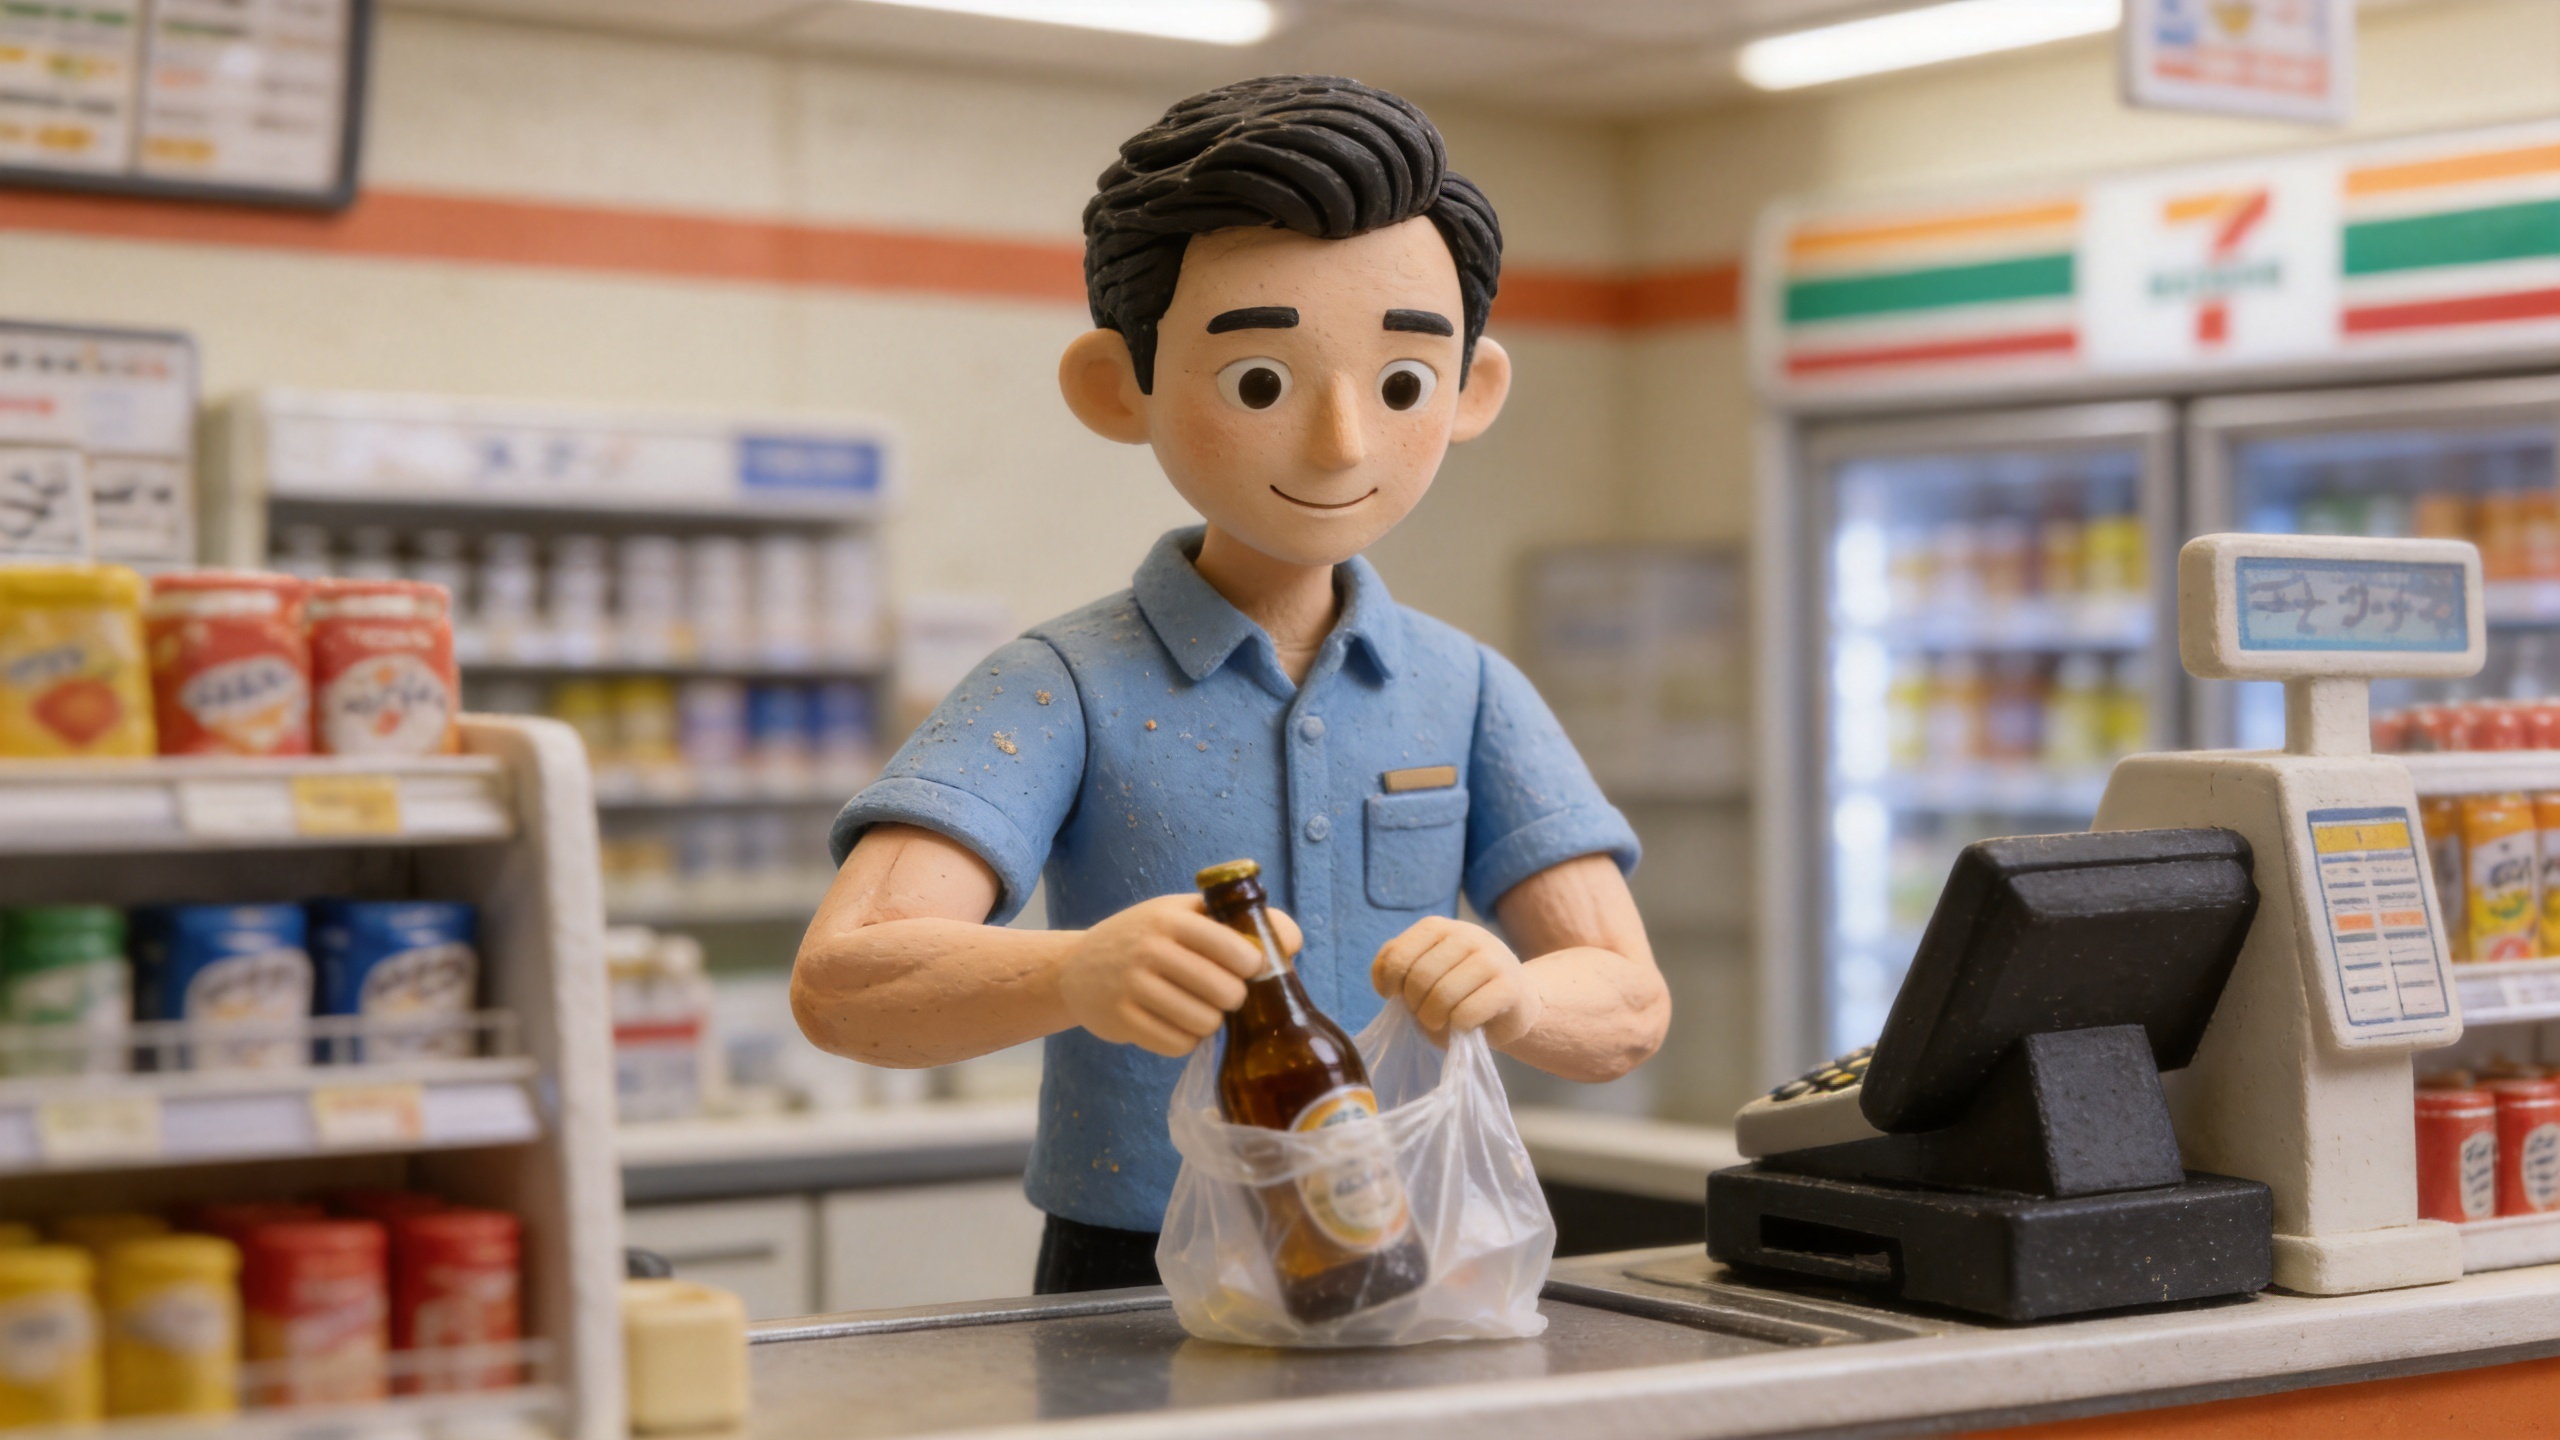
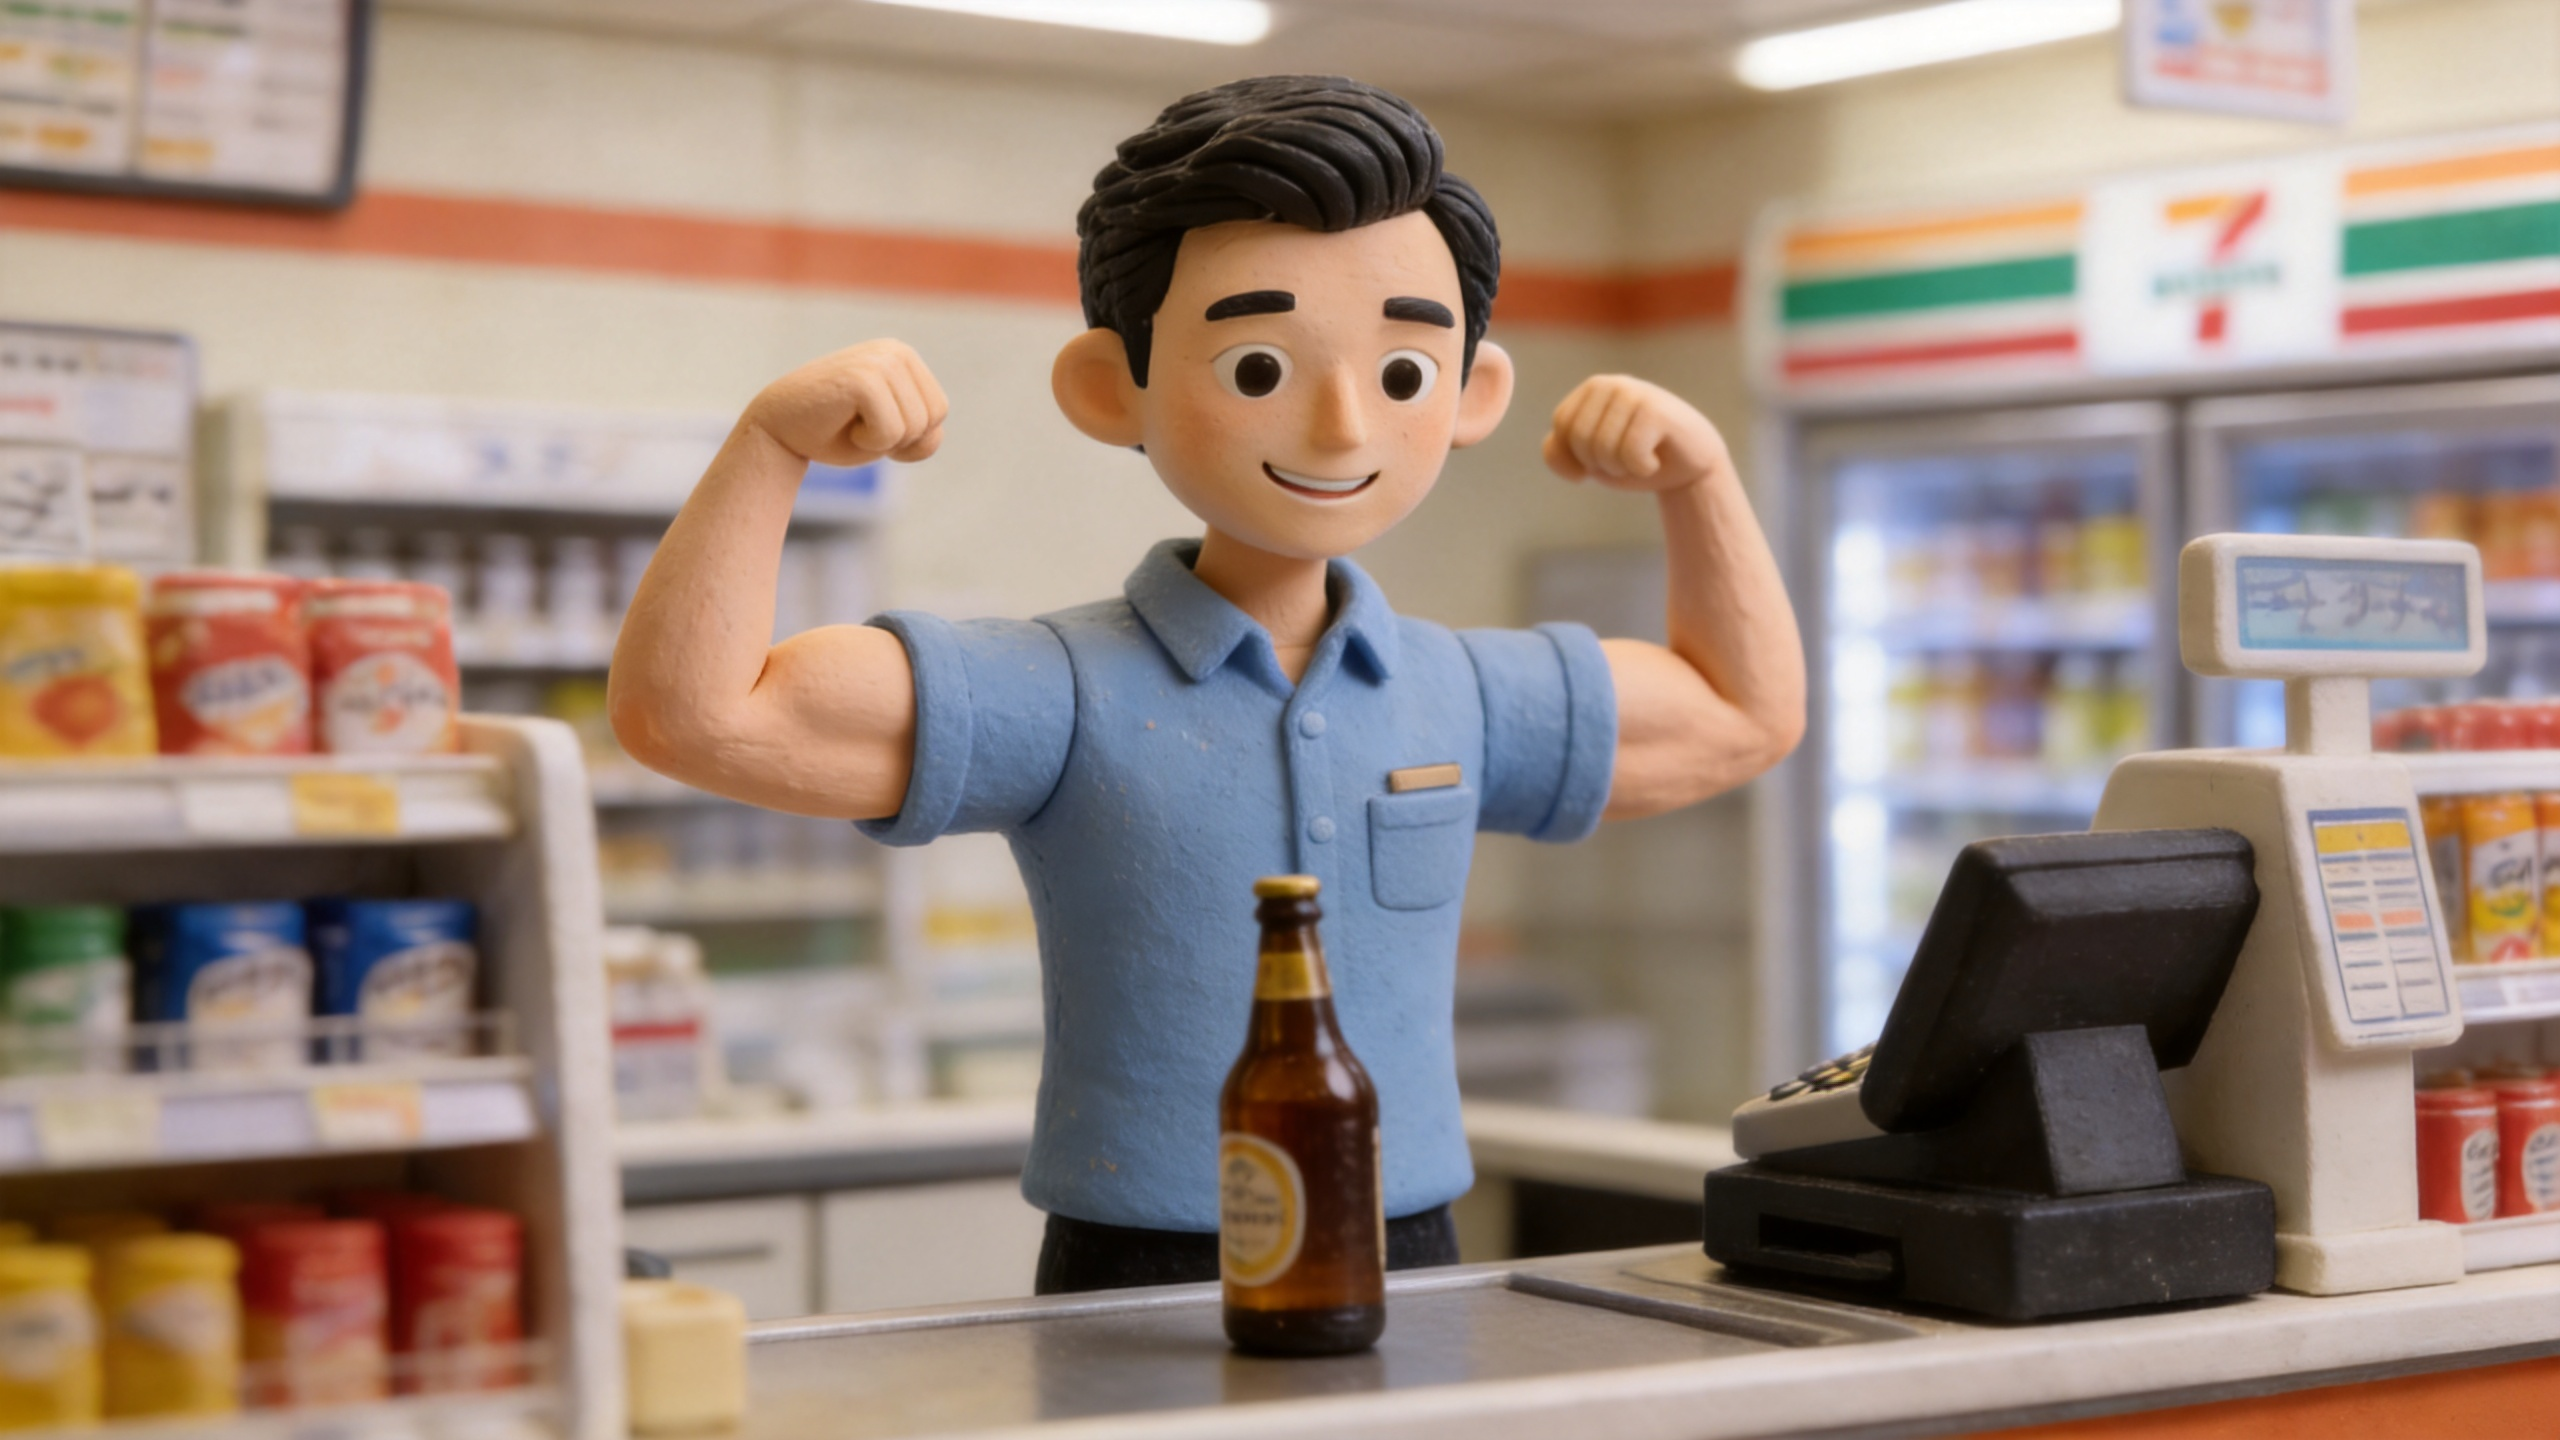
feat: update all episode images and audio, EP04 mp4→mp3

diff --git a/app.js b/app.js
@@ -191,7 +191,7 @@ const episodes = [
         ]
       },
       {
-        image: "scene2.png", audio: "s2.mp4",
+        image: "scene2.png", audio: "s2.mp3",
         jpHtml: r(`<span class="sp">店員</span>プレゼントでしたら、チョコレートをお{勧|すす}めします。<br><span class="sp">蘭</span>{確|たし}かに{包装|ほうそう}が{綺麗|きれい}ですね。<br><span class="sp">店員</span>{地元|じもと}の{特色|とくしょく}もあります。それに、<br>　{二|ふた}つ{買|か}うと{割引|わりびき}があります。`),
         zhText: "店员：如果是礼物的话，推荐巧克力。\n蘭：确实包装很漂亮呢。\n店员：也有当地特色。而且，买两个有折扣。",
         vocab: [
@@ -203,7 +203,7 @@ const episodes = [
         ]
       },
       {
-        image: "scene3.png", audio: "s3.mp4",
+        image: "scene3.png", audio: "s3.mp3",
         jpHtml: r(`<span class="sp">蘭</span>いいですね。それでは、２つをお{願|ねが}いします。<br><span class="sp">店員</span>はい、かしこまりました。<br><span class="sp">蘭</span>お{会計|かいけい}はカードでいいですか。<br><span class="sp">店員</span>もちろんです。`),
         zhText: "蘭：不错。那就要两个吧。\n店员：好的，明白了。\n蘭：结账可以刷卡吗？\n店员：当然可以。",
         vocab: [
@@ -213,7 +213,7 @@ const episodes = [
         ]
       },
       {
-        image: "scene4.png", audio: "s4.mp4",
+        image: "scene4.png", audio: "s4.mp3",
         jpHtml: r(`<span class="sp">蘭</span>あのう、{明日|あした}も{割引|わりびき}がありますか？<br><span class="sp">店員</span>え、なんですか？<br><span class="sp">蘭</span>{財布|さいふ}をホテルに{忘|わす}れました。`),
         zhText: "蘭：那个……明天也有折扣吗？\n店员：嗯？什么？\n蘭：我把钱包忘在酒店了。",
         vocab: [